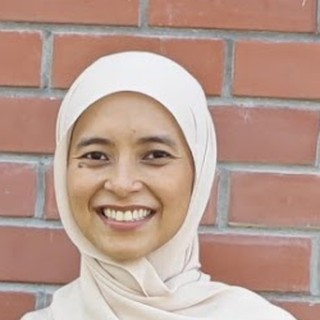
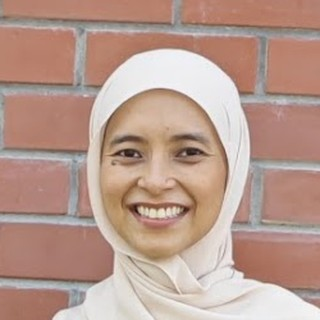
Hub: centre headshot, tools in one row at the bottom
Claude-Session: https://claude.ai/code/session_01QeVMg7Ff6pismiZx4ztfwq

diff --git a/index.html b/index.html
@@ -141,6 +141,9 @@ html{scroll-behavior:smooth}.sec{scroll-margin-top:60px}
 .btn-out{display:inline-block;border:1px solid var(--black);color:var(--black);font-weight:600;font-size:15px;text-decoration:none;padding:12px 20px;border-radius:10px}
 .btn-out:hover{border-color:var(--gold);color:#8C6E1A}
 @media (max-width:820px){.ptabs{grid-template-columns:repeat(2,1fr)}.pp{grid-template-columns:1fr}}
+#alat{padding:40px 20px 44px}
+#alat .card h2{font-size:20px}
+@media (min-width:900px){#alat .grid{grid-template-columns:repeat(4,1fr)}}
 </style>
 <style id="wsb-shared">
 /* ── Shared chrome: identical on every page ── */
@@ -301,7 +304,23 @@ html{scroll-behavior:smooth}.sec{scroll-margin-top:60px}
   </div>
 </section>
 
-<section class="sec">
+</main>
+<a class="mini" id="mini" href="#o_box" hidden><span><span class="bm">Jumlah harta</span><span class="en">Total assets</span></span><b id="mini_tot">RM0</b><span class="mini-go"><span class="bm">Lihat</span><span class="en">View</span> &darr;</span></a>
+
+<section class="about" id="tentang">
+  <div class="wrap about-in">
+    <img class="about-pic" src="assets/shakina.jpg" width="160" height="160" alt="Shakina K.">
+    <div class="about-txt">
+      <p class="label"><span class="bm">Tentang Shakina</span><span class="en">About Shakina</span></p>
+      <h2 class="h2">Shakina K.</h2>
+      <p class="about-role">Kausar Wealth · <span class="bm">Penasihat Wasiyyah Shoppe Berhad</span><span class="en">Wasiyyah Shoppe Berhad advisor</span></p>
+      <p class="about-body"><span class="bm">Saya mula dengan merancang pusaka keluarga sendiri, dan sedar betapa ramai yang tidak tahu apa berlaku kepada harta selepas kematian. Saya bukan jurujual. Dengan semangat untuk terus belajar tentang agama dan lebih 15 tahun dalam dunia korporat dalam bidang analisis dan perancangan, saya suka memudahkan perkara yang rumit supaya anda boleh membuat keputusan sendiri.</span><span class="en">I started by planning my own family&rsquo;s estate, and realised how few people know what happens to their assets after death. I&rsquo;m not a salesperson. With a passion for continuous learning in our deen and over 15 years in the corporate world in analysis and planning roles, I like to make complicated things simple so you can decide for yourself.</span></p>
+      <a class="btn-gold" href="https://wa.me/60173335664?text=Assalamualaikum%20Shakina%2C%20saya%20ingin%20bertanya%20tentang%20perancangan%20pusaka." target="_blank" rel="noopener">WhatsApp Shakina · 017-333 5664</a>
+    </div>
+  </div>
+</section>
+
+<section class="sec" id="alat">
   <div class="wrap">
     <p class="label"><span class="bm">Langkah 3 · Ketahui lebih lanjut</span><span class="en">Step 3 · Go deeper</span></p>
     <h2 class="h2"><span class="bm">Alat</span><span class="en">Tools</span></h2>
@@ -330,21 +349,6 @@ html{scroll-behavior:smooth}.sec{scroll-margin-top:60px}
         <p><span class="bm">Cari pakej Hibah yang sesuai untuk rumah atau tanah anda.</span><span class="en">Find the Hibah package that fits your house or land.</span></p>
         <span class="go"><span class="bm">Buka</span><span class="en">Open</span></span>
       </a>
-    </div>
-  </div>
-</section>
-</main>
-<a class="mini" id="mini" href="#o_box" hidden><span><span class="bm">Jumlah harta</span><span class="en">Total assets</span></span><b id="mini_tot">RM0</b><span class="mini-go"><span class="bm">Lihat</span><span class="en">View</span> &darr;</span></a>
-
-<section class="about" id="tentang">
-  <div class="wrap about-in">
-    <img class="about-pic" src="assets/shakina.jpg" width="160" height="160" alt="Shakina K.">
-    <div class="about-txt">
-      <p class="label"><span class="bm">Tentang Shakina</span><span class="en">About Shakina</span></p>
-      <h2 class="h2">Shakina K.</h2>
-      <p class="about-role">Kausar Wealth · <span class="bm">Penasihat Wasiyyah Shoppe Berhad</span><span class="en">Wasiyyah Shoppe Berhad advisor</span></p>
-      <p class="about-body"><span class="bm">Saya mula dengan merancang pusaka keluarga sendiri, dan sedar betapa ramai yang tidak tahu apa berlaku kepada harta selepas kematian. Saya bukan jurujual. Dengan semangat untuk terus belajar tentang agama dan lebih 15 tahun dalam dunia korporat dalam bidang analisis dan perancangan, saya suka memudahkan perkara yang rumit supaya anda boleh membuat keputusan sendiri.</span><span class="en">I started by planning my own family&rsquo;s estate, and realised how few people know what happens to their assets after death. I&rsquo;m not a salesperson. With a passion for continuous learning in our deen and over 15 years in the corporate world in analysis and planning roles, I like to make complicated things simple so you can decide for yourself.</span></p>
-      <a class="btn-gold" href="https://wa.me/60173335664?text=Assalamualaikum%20Shakina%2C%20saya%20ingin%20bertanya%20tentang%20perancangan%20pusaka." target="_blank" rel="noopener">WhatsApp Shakina · 017-333 5664</a>
     </div>
   </div>
 </section>
